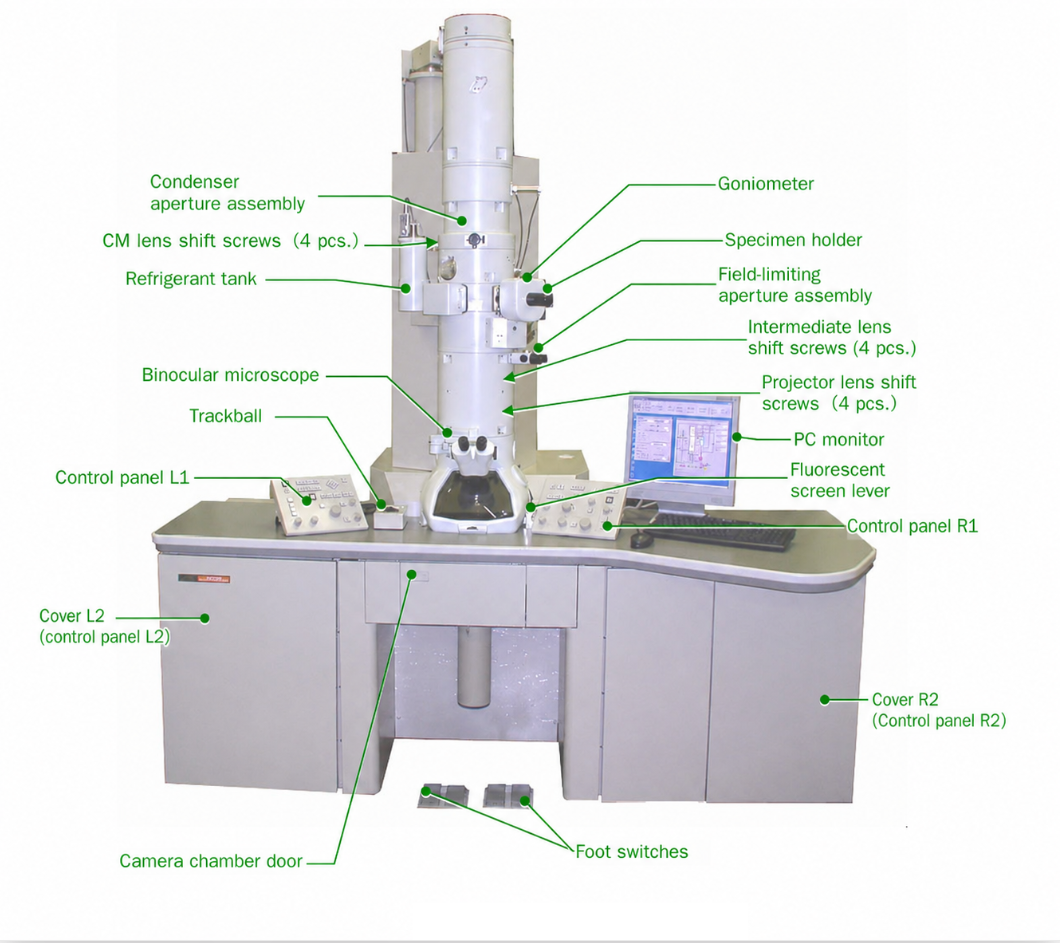
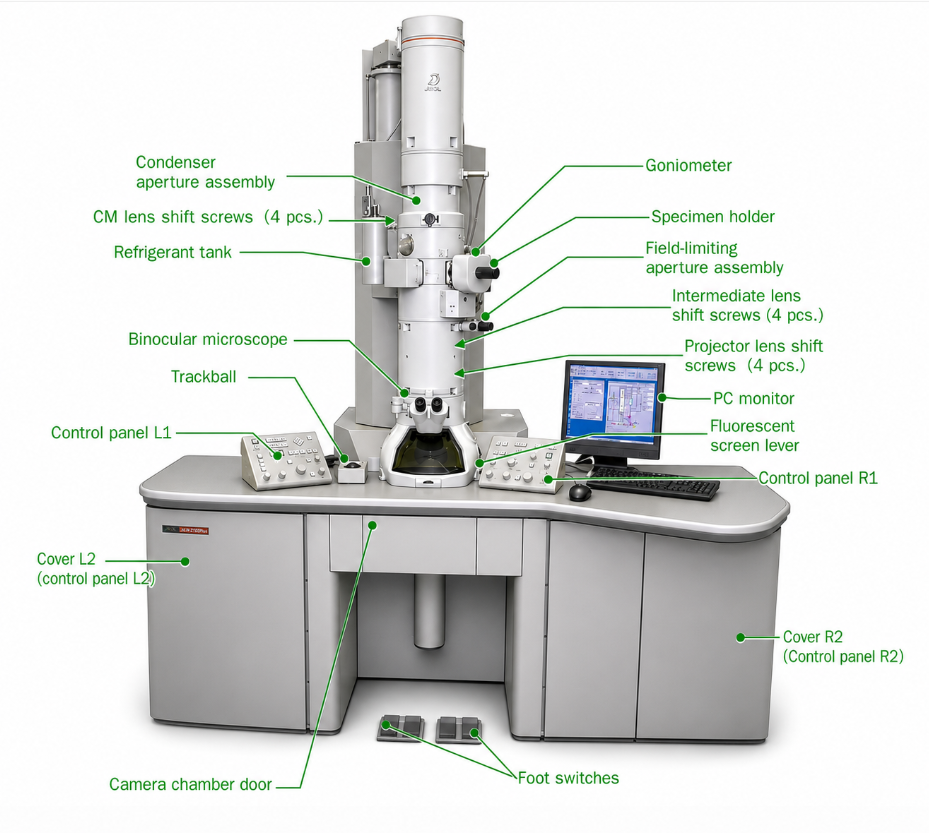
deploying ver1.8

Changed region(s): [[0.0312, 0.0, 0.9677, 0.9676], [0.0, 0.9988, 0.9989, 1.0]]

diff --git a/data/components-data.js b/data/components-data.js
@@ -47,8 +47,8 @@
   const exteriorFace = {
     image: {
       src: '../assets/images/column/tem-exterior.png',
-      width: 1060,
-      height: 943
+      width: 929,
+      height: 833
     },
     components: [
       {
@@ -59,8 +59,8 @@
           'The side-mounted assembly on the upper column that carries the condenser apertures. A strip of precision-drilled holes (typically 30-200 \u00b5m) can be slid into the beam; the small X/Y knobs centre the chosen hole on the optical axis.',
           'Choosing a smaller condenser aperture improves the spatial coherence of the illumination (sharper interference fringes) at the cost of beam current; a larger one gives a brighter beam for rapid survey work.'
         ],
-        pin: { x: 43.5, y: 23.4 },
-        hotspot: { x: 13.0, y: 17.3, w: 32.5, h: 7.0 }
+        pin: { x: 44.7, y: 24.0 },
+        hotspot: { x: 13.0, y: 17.6, w: 16.5, h: 6.6 }
       },
       {
         id: 'ext-cm-lens-screws',
@@ -70,8 +70,8 @@
           'A set of four screws used to mechanically centre the condenser-mini lens polepiece relative to the optical axis. Mechanical alignment of the polepiece complements the electrical (coil-based) beam alignment performed from the console.',
           'These are service / coarse-alignment adjustments — set during installation and major maintenance, not touched during routine operation.'
         ],
-        pin: { x: 40.5, y: 25.6 },
-        hotspot: { x: 8.5, y: 24.0, w: 34.0, h: 3.4 }
+        pin: { x: 41.8, y: 26.5 },
+        hotspot: { x: 9.0, y: 24.3, w: 34.5, h: 3.2 }
       },
       {
         id: 'ext-refrigerant-tank',
@@ -81,8 +81,8 @@
           'A liquid-nitrogen dewar mounted on the column. It feeds a cold finger / anti-contaminator near the specimen that condenses stray hydrocarbon molecules onto a cold surface, keeping them off the specimen and reducing carbon build-up under the beam.',
           'On instruments with a cooled detector or an energy filter, a refrigerant supply may also stabilise those subsystems. The tank is topped up regularly; letting it run dry degrades vacuum cleanliness around the sample.'
         ],
-        pin: { x: 38.2, y: 30.5 },
-        hotspot: { x: 11.0, y: 28.0, w: 28.5, h: 3.6 }
+        pin: { x: 39.3, y: 31.3 },
+        hotspot: { x: 11.0, y: 29.0, w: 18.8, h: 3.2 }
       },
       {
         id: 'ext-goniometer',
@@ -93,8 +93,8 @@
           'The mechanical stage into which the specimen holder is inserted. It controls X / Y / Z translation and \u03b1 (and on double-tilt holders \u03b2) tilt of the specimen with sub-micron and sub-degree precision, letting the operator bring a feature onto the axis and orient a crystal to a chosen zone axis.',
           'Goniometer stability is decisive for high-resolution work: thermal drift, backlash, or vibration here shows up directly as image blur. Side-entry goniometers (shown) are the most common geometry in modern TEMs.'
         ],
-        pin: { x: 49.7, y: 29.3 },
-        hotspot: { x: 65.5, y: 17.8, w: 18.0, h: 3.6 }
+        pin: { x: 51.2, y: 30.2 },
+        hotspot: { x: 66.4, y: 19.0, w: 13.6, h: 3.0 }
       },
       {
         id: 'ext-specimen-holder',
@@ -104,8 +104,8 @@
           'The rod inserted horizontally through the airlock into the goniometer. Its tip clamps the 3 mm specimen grid inside the objective-lens polepiece gap. Holders come in many types: single-tilt, double-tilt, heating, cooling (LN\u2082 / He), biasing, and in-situ straining or gas-cell designs.',
           'The holder is introduced through a vacuum airlock that is pumped separately before a gate valve opens to the column, protecting the column vacuum. Cleanliness of the rod tip is critical — a contaminated holder is a common source of specimen drift and contamination.'
         ],
-        pin: { x: 51.6, y: 30.5 },
-        hotspot: { x: 65.5, y: 27.4, w: 19.0, h: 3.6 }
+        pin: { x: 53.1, y: 31.5 },
+        hotspot: { x: 64.8, y: 27.8, w: 16.8, h: 2.8 }
       },
       {
         id: 'ext-field-limiting-aperture',
@@ -115,8 +115,8 @@
           'The assembly carrying the selected-area / field-limiting aperture, located in an image plane below the objective lens. Inserting it restricts which region of the specimen contributes to the diffraction pattern, enabling selected-area electron diffraction (SAED) from a chosen grain or phase.',
           'Like the other apertures it has X/Y centring knobs and a strip of selectable hole sizes. It is retracted during normal imaging and inserted only when isolating a region for diffraction.'
         ],
-        pin: { x: 50.7, y: 36.8 },
-        hotspot: { x: 65.5, y: 33.0, w: 24.0, h: 6.8 }
+        pin: { x: 52.2, y: 37.9 },
+        hotspot: { x: 64.8, y: 30.0, w: 21.5, h: 4.4 }
       },
       {
         id: 'ext-intermediate-screws',
@@ -126,8 +126,8 @@
           'Four screws for mechanical alignment of the intermediate lens polepiece on the optical axis. The intermediate lenses set the magnification zoom and perform the image / diffraction mode switch, so their mechanical centring underpins clean mode changes.',
           'As with the other shift-screw sets, these are coarse mechanical adjustments made during alignment and service rather than routine operation.'
         ],
-        pin: { x: 48.1, y: 39.9 },
-        hotspot: { x: 65.5, y: 38.6, w: 25.0, h: 5.6 }
+        pin: { x: 49.6, y: 41.2 },
+        hotspot: { x: 71.0, y: 35.0, w: 18.5, h: 4.4 }
       },
       {
         id: 'ext-projector-screws',
@@ -137,8 +137,8 @@
           'Four screws for mechanically centring the projector lens polepiece. The projector lens is the final magnetic lens, projecting the image or diffraction pattern onto the screen and camera, so its alignment affects how centred and distortion-free the final image is.',
           'These too are coarse mechanical alignments fixed during setup and maintenance, not part of day-to-day operation.'
         ],
-        pin: { x: 48.0, y: 43.5 },
-        hotspot: { x: 65.5, y: 44.8, w: 25.0, h: 5.6 }
+        pin: { x: 49.5, y: 44.7 },
+        hotspot: { x: 71.0, y: 40.0, w: 20.0, h: 4.6 }
       },
       {
         id: 'ext-binocular-microscope',
@@ -148,8 +148,8 @@
           'The binocular optics that look down onto the fluorescent viewing screen, giving the operator a direct, magnified optical view of the live electron image. They are the traditional tool for fine focusing and astigmatism correction, resolving screen detail finer than the naked eye.',
           'Although high-sensitivity cameras now capture the image digitally, the binoculars remain valuable for real-time alignment because the eye-screen path has no readout lag.'
         ],
-        pin: { x: 42.1, y: 45.8 },
-        hotspot: { x: 12.0, y: 38.0, w: 24.0, h: 3.6 }
+        pin: { x: 43.5, y: 47.1 },
+        hotspot: { x: 12.0, y: 39.4, w: 18.2, h: 3.2 }
       },
       {
         id: 'ext-pc-monitor',
@@ -159,8 +159,8 @@
           'The computer display showing the live camera image, column status (vacuum, lens currents, stage position), and the acquisition / analysis software menus. Most TEMs run two or more screens — one for the live image and one for column control.',
           'The monitor is the operator\u2019s main feedback surface during digital acquisition, where exposure, binning, drift correction, and image saving are managed.'
         ],
-        pin: { x: 69.5, y: 46.3 },
-        hotspot: { x: 74.5, y: 45.0, w: 16.5, h: 3.4 }
+        pin: { x: 71.2, y: 47.7 },
+        hotspot: { x: 75.0, y: 46.0, w: 12.0, h: 2.8 }
       },
       {
         id: 'ext-control-panel-l1',
@@ -171,8 +171,8 @@
           'The left-hand operator console on the desk. It typically carries the left trackball (beam shift / tilt), the brightness (C2) control, gun and condenser alignment functions, and the aperture and mode buttons used to set up the illumination.',
           'Click to open a detailed view of this console and explore its individual knobs and switches.'
         ],
-        pin: { x: 28.9, y: 53.0 },
-        hotspot: { x: 4.0, y: 49.0, w: 26.5, h: 3.6 }
+        pin: { x: 29.8, y: 54.7 },
+        hotspot: { x: 4.2, y: 50.4, w: 27.6, h: 3.2 }
       },
       {
         id: 'ext-trackball',
@@ -182,8 +182,8 @@
           'A trackball on the console used for smooth, fine positioning. Depending on the active mode it drives beam shift / tilt, image shift, or stage (specimen) movement, letting the operator slew across the specimen or recentre a feature without reaching for individual knobs.',
           'Most columns provide two trackballs (one per console) so beam and image / stage controls are available simultaneously during alignment.'
         ],
-        pin: { x: 35.9, y: 53.4 },
-        hotspot: { x: 16.5, y: 43.0, w: 14.0, h: 3.6 }
+        pin: { x: 37.0, y: 55.0 },
+        hotspot: { x: 17.0, y: 43.9, w: 10.2, h: 3.2 }
       },
       {
         id: 'ext-fluorescent-screen-lever',
@@ -193,8 +193,8 @@
           'The lever that lifts the fluorescent (phosphor) viewing screen out of the beam path. With the screen down, the operator views the live image through the binoculars; lifting it lets the beam reach the camera or a direct-electron detector below for acquisition.',
           'Screen up / down is one of the most frequent actions in a session — survey and focus on the screen, then lift it to record.'
         ],
-        pin: { x: 50.1, y: 53.7 },
-        hotspot: { x: 74.0, y: 49.6, w: 17.5, h: 5.8 }
+        pin: { x: 51.6, y: 55.5 },
+        hotspot: { x: 74.5, y: 50.0, w: 13.5, h: 4.6 }
       },
       {
         id: 'ext-control-panel-r1',
@@ -205,8 +205,8 @@
           'The right-hand operator console on the desk. It typically carries the right trackball (image shift / stage), the magnification and focus controls, the diffraction (DIFF) and imaging mode buttons, and image-shift / alignment functions.',
           'Click to open a detailed view of this console and explore its individual knobs and switches.'
         ],
-        pin: { x: 57.3, y: 55.7 },
-        hotspot: { x: 74.0, y: 55.4, w: 18.5, h: 3.4 }
+        pin: { x: 59.0, y: 57.5 },
+        hotspot: { x: 76.0, y: 55.8, w: 20.0, h: 3.0 }
       },
       {
         id: 'ext-camera-chamber-door',
@@ -216,8 +216,8 @@
           'The door of the camera (recording) chamber beneath the viewing screen. Historically this chamber held photographic film plates; today it houses the CCD / CMOS camera or a retractable detector. The door provides access for camera service and, on film-era instruments, plate loading.',
           'The chamber is part of the column vacuum, so the door is interlocked with the vacuum system and only opened under the correct conditions.'
         ],
-        pin: { x: 38.8, y: 60.9 },
-        hotspot: { x: 10.0, y: 89.0, w: 25.0, h: 3.8 }
+        pin: { x: 40.0, y: 63.0 },
+        hotspot: { x: 11.0, y: 91.0, w: 24.6, h: 3.4 }
       },
       {
         id: 'ext-cover-l2',
@@ -227,8 +227,8 @@
           'The left cabinet cover of the desk console. Behind it sit secondary control electronics and the L2 control panel for the instrument — power supplies, interface boards, and auxiliary controls that are not needed on the operator surface.',
           'These covers are access panels for service engineers; they remain closed during normal operation.'
         ],
-        pin: { x: 19.2, y: 65.5 },
-        hotspot: { x: 2.5, y: 63.3, w: 19.0, h: 5.2 }
+        pin: { x: 19.9, y: 67.3 },
+        hotspot: { x: 2.6, y: 65.2, w: 19.0, h: 6.4 }
       },
       {
         id: 'ext-cover-r2',
@@ -238,8 +238,8 @@
           'The right cabinet cover of the desk console, behind which sit the R2 control panel and additional control electronics for the instrument. Like the left cabinet it holds power and interface hardware kept off the operator surface.',
           'Opened only for maintenance and service access; closed during routine use.'
         ],
-        pin: { x: 77.8, y: 74.1 },
-        hotspot: { x: 76.0, y: 72.8, w: 20.0, h: 5.2 }
+        pin: { x: 79.7, y: 76.5 },
+        hotspot: { x: 78.0, y: 74.9, w: 20.6, h: 5.4 }
       },
       {
         id: 'ext-foot-switches',
@@ -249,11 +249,11 @@
           'The pair of floor pedals that give the operator hands-free control of frequently used functions — commonly screen lift, beam blanking, exposure / capture, or stage actions — so both hands stay on the trackballs and knobs during alignment and acquisition.',
           'Pedal assignment is configurable on most instruments to match the operator\u2019s preferred workflow.'
         ],
-        pin: { x: 40.1, y: 83.9 },
+        pin: { x: 41.5, y: 86.9 },
         /* The component has two endpoint dots (left + right pedal). The second
            marker is rendered from `extraPins`; the hotspot box spans both. */
-        extraPins: [{ x: 49.5, y: 84.9 }],
-        hotspot: { x: 53.3, y: 88.2, w: 13.8, h: 3.6 }
+        extraPins: [{ x: 51.0, y: 87.9 }],
+        hotspot: { x: 50.5, y: 88.0, w: 16.5, h: 3.6 }
       }
     ]
   };

diff --git a/assets/css/column.css b/assets/css/column.css
@@ -140,7 +140,7 @@
     box-shadow var(--dur-base) var(--ease-out);
 }
 
-.column-image-wrap--exterior  { aspect-ratio: 1060 / 943; }
+.column-image-wrap--exterior  { aspect-ratio: 929 / 833; }
 .column-image-wrap--interior  { aspect-ratio: 1135 / 1136; }
 .column-image-wrap--detail    { aspect-ratio: 900 / 620; }
 .column-image-wrap--l1        { aspect-ratio: 1105 / 829; }

diff --git a/doc/CHANGELOG.md b/doc/CHANGELOG.md
@@ -1,5 +1,21 @@
 # Changelog
 
+## v1.8 — New Exterior Image
+
+### Module 01 · The Column
+
+- **Replaced the exterior diagram** with the improved photo (929 x 833,
+  previously 1060 x 943). All 18 hotspot label-boxes and their part pins were
+  fully recalibrated to the new image (verified by overlay render); the
+  exterior image-wrap aspect-ratio was updated accordingly.
+- No other Module 01 behaviour changed (interior, goniometer, L1/R1 drill-downs
+  untouched).
+
+### Unchanged
+
+- Modules 02 and 03 untouched.
+
+
 ## v1.7 — Interior Hotspot Fix + Module 02 Diagram Swap
 
 ### Module 01 · The Column

diff --git a/doc/README.md b/doc/README.md
@@ -1,4 +1,4 @@
-# TEM Simulator — Version 1.7
+# TEM Simulator — Version 1.8
 
 A web-based Transmission Electron Microscope learning environment, built for
 IIT students to develop instrument intuition before working on real hardware.